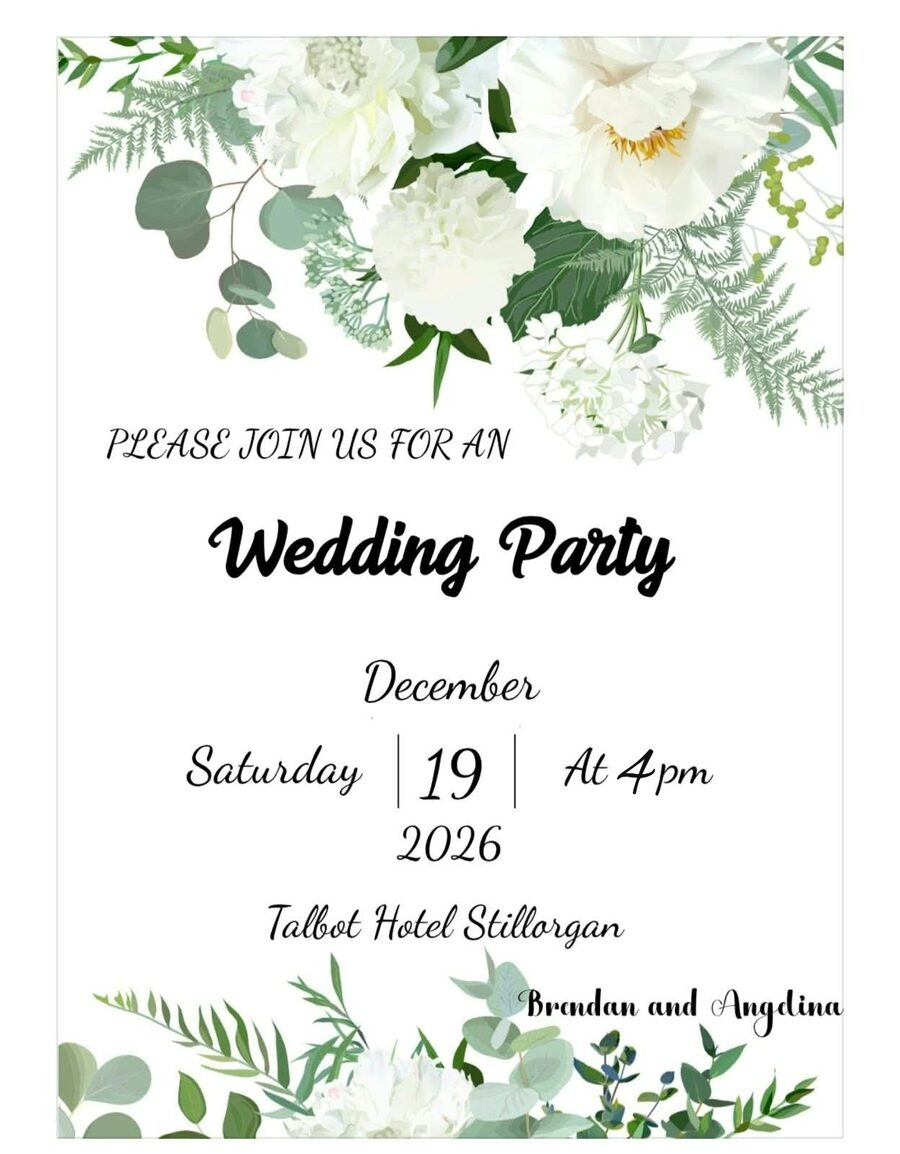
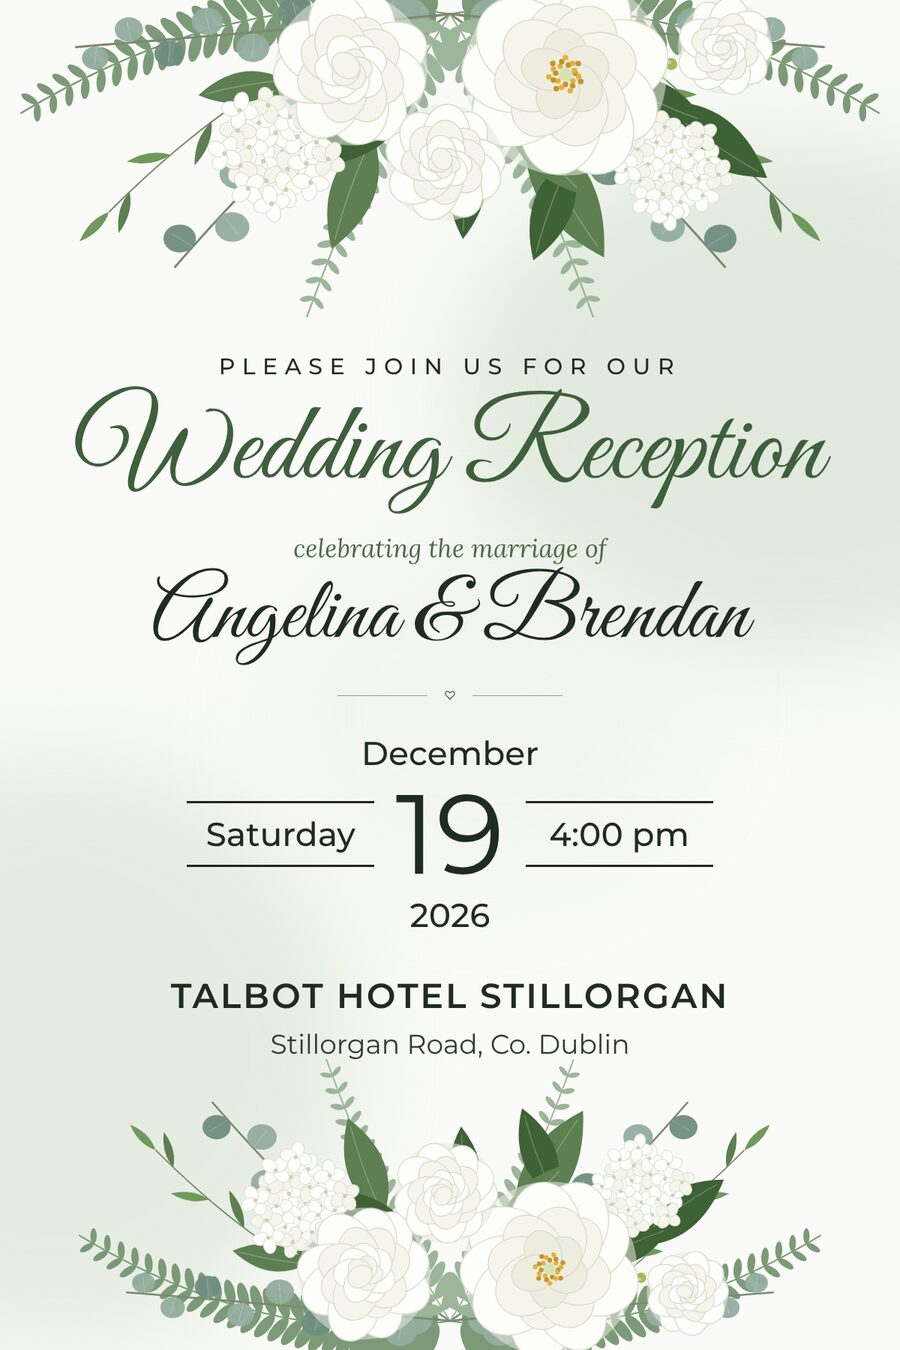
New design for the reception card
A freshly drawn "Wedding Reception" card replaces the edited original:
the site's white peony and eucalyptus arch top and bottom on a sage
watercolour wash, "Angelina & Brendan" (the ceremony card's order), and
the date laid out like the ceremony card: Saturday | 19 | 4:00 pm,
December 2026, Talbot Hotel Stillorgan, Stillorgan Road, Co. Dublin.
Share picture re-rendered.

Claude-Session: https://claude.ai/code/session_011VEn6AEm3R6U9zPf6WLKQk

diff --git a/invitation/src/assets/cards.ts b/invitation/src/assets/cards.ts
@@ -9,5 +9,5 @@ export type Card = { src: string; alt: string }
 export const CARDS: Card[] = [
   { src: nuptials, alt: "The Taguibao and Keenan Nuptials" },
   { src: ceremony, alt: "Ceremony: Saturday, December 19, 2026 at 12:00 noon, St. John the Baptist Church, Blackrock" },
-  { src: reception, alt: "Wedding Party: Saturday, December 19, 2026 at 4 pm, Talbot Hotel Stillorgan" },
+  { src: reception, alt: "Wedding Reception: Saturday, December 19, 2026 at 4:00 pm, Talbot Hotel Stillorgan" },
 ]
